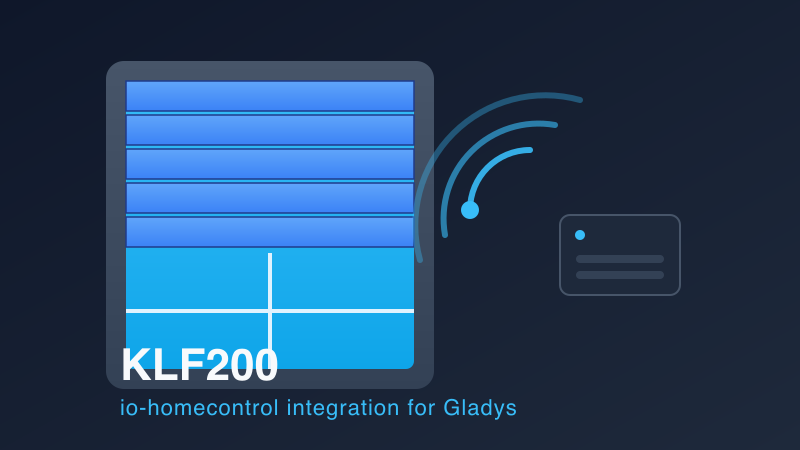
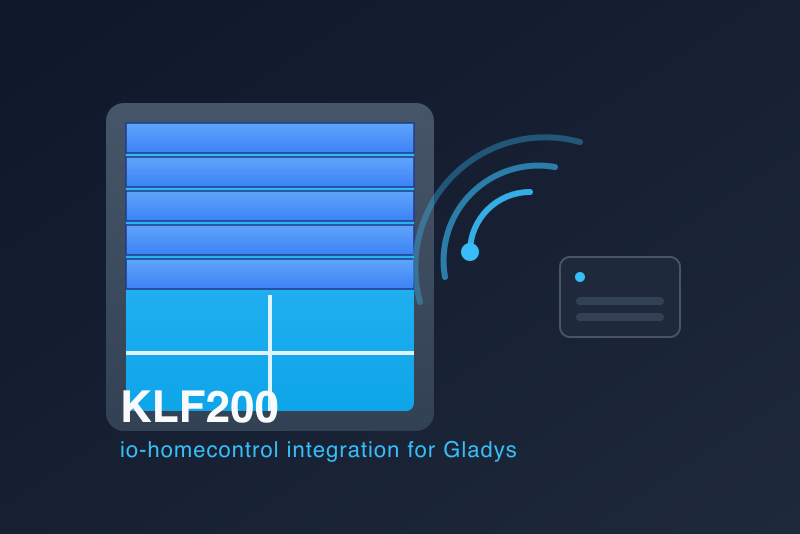
Add mandatory user docs and fix cover image dimensions
npx github:GladysAssistant/integration-store . flagged both: docs/en.md
and docs/fr.md are required by the store, and the cover was 800x450
instead of the expected 800x534.

diff --git a/docs/fr.md b/docs/fr.md
@@ -1,0 +1,38 @@
+# KLF200 - io-homecontrol
+
+Ceci est la documentation utilisateur de l'intégration. Gladys ré-héberge ce fichier et affiche un
+lien **Documentation** permanent vers lui dans l'écran de configuration — c'est au moment de
+configurer que l'utilisateur en a le plus besoin.
+
+## Ce que vous obtenez
+
+Chaque volet/fenêtre io-homecontrol® déjà appairé à votre passerelle Velux KLF200 (via l'appli
+Velux ou l'interface d'appairage de la passerelle) apparaît automatiquement, avec deux
+fonctionnalités pilotables :
+
+- **Position** — un curseur 0–100 %.
+- **État** — un bouton ouvert / stop / fermé.
+
+Les deux sont interrogées toutes les 60 secondes : un mouvement fait en dehors de Gladys
+(télécommande physique, appli Velux) est donc répercuté automatiquement en moins d'une minute.
+
+## Configuration
+
+1. Ouvrez l'onglet **Configuration** de l'intégration.
+2. Renseignez l'**adresse IP** et le **mot de passe** de la passerelle KLF200 (définis sur la
+   passerelle elle-même). Optionnellement, collez son **empreinte TLS** pour épingler le
+   certificat.
+3. Enregistrez : l'intégration se connecte à la passerelle et les volets déjà connus apparaissent
+   dans l'onglet **Découverte**, prêts à être ajoutés.
+
+## Limitation connue
+
+Le KLF200 n'accepte qu'**une seule connexion à la fois**. Si la passerelle vient d'être utilisée
+par un autre client (l'appli Velux, une autre intégration…), une tentative de connexion peut être
+brièvement refusée — l'intégration réessaie automatiquement toutes les 30 secondes, sans action
+requise.
+
+## Dépannage
+
+L'intégration journalise chaque tentative de connexion, découverte et commande : consultez les
+logs de l'intégration depuis l'interface Gladys (ou `docker logs` sur l'hôte).

diff --git a/docs/en.md b/docs/en.md
@@ -1,0 +1,35 @@
+# KLF200 - io-homecontrol
+
+This is the user documentation of the integration. Gladys re-hosts this file and shows a permanent
+**Documentation** link to it in the Configuration screen — it is when configuring that the user
+needs it most.
+
+## What you get
+
+Every io-homecontrol® shutter/window already paired to your Velux KLF200 gateway (via the Velux
+app or the gateway's own pairing UI) shows up automatically, each with two controllable features:
+
+- **Position** — a 0–100% slider.
+- **State** — an open / stop / closed button.
+
+Both are polled every 60 seconds, so a move made outside Gladys (physical remote, Velux app) is
+reflected automatically within a minute.
+
+## Configuration
+
+1. Open the **Configuration** tab of the integration.
+2. Fill in the KLF200 gateway's **IP address** and **password** (set on the gateway itself).
+   Optionally paste its **TLS fingerprint** to pin the certificate.
+3. Save: the integration connects to the gateway and the shutters it already knows about appear in
+   the **Discovery** tab, ready to be added.
+
+## Known limitation
+
+The KLF200 only accepts a **single connection at a time**. If the gateway was recently used by
+another client (the Velux app, another integration…) a connection attempt can be briefly refused —
+the integration retries automatically every 30 seconds and needs no manual action.
+
+## Troubleshooting
+
+The integration logs every connection attempt, discovery and command: check the integration logs
+from the Gladys UI (or `docker logs` on the host).
